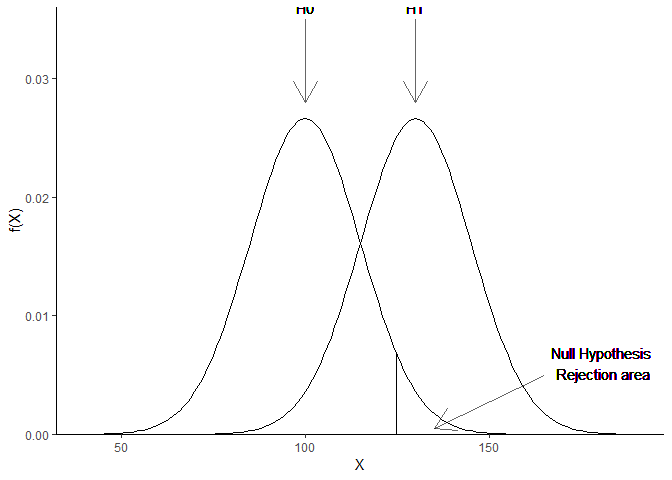
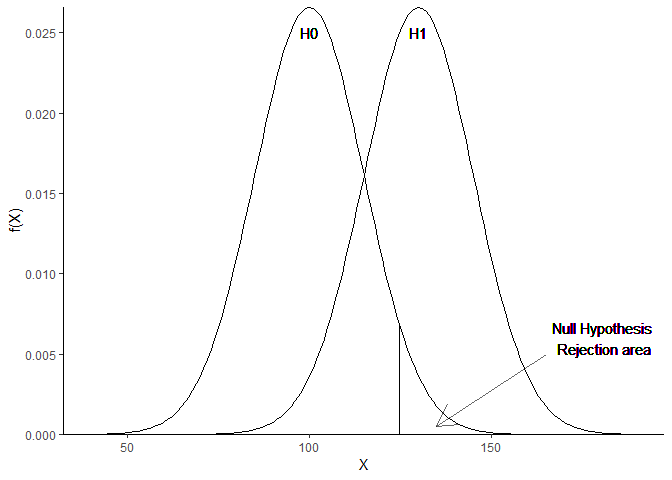
chapter 10

diff --git a/10_Hypothesis_Testing.md b/10_Hypothesis_Testing.md
@@ -1,6 +1,5 @@
 Chapter 10 - Hypothesis Testing
 ================
-DD
 
 ``` r
 library(tidyquant)
@@ -71,12 +70,8 @@ tibble(x = x_values,
                    yend = dnorm(qnorm(0.95,100,15), 100,15))) +
    annotate("segment", x = 165, xend = 135, y = 0.005, yend = 0.0005, colour = "black", 
             alpha=0.6, arrow=arrow()) +
-  annotate("segment", x = 130, xend = 130, y = 0.035, yend = 0.028, colour = "black", 
-            alpha=0.6, arrow=arrow()) +
-  annotate("segment", x = 100, xend = 100, y = 0.035, yend = 0.028, colour = "black", 
-            alpha=0.6, arrow=arrow()) +
-  geom_text(aes(x = 100, y = 0.036, label = 'H0')) +
-  geom_text(aes(x = 130, y = 0.036, label = 'H1')) +
+  geom_text(aes(x = 100, y = 0.025, label = 'H0')) +
+  geom_text(aes(x = 130, y = 0.025, label = 'H1')) +
   geom_text(aes(x = 181, y = 0.006, label = 'Null Hypothesis \nRejection area')) +
   theme_classic() +
   scale_y_continuous(expand = c(0,0)) +
